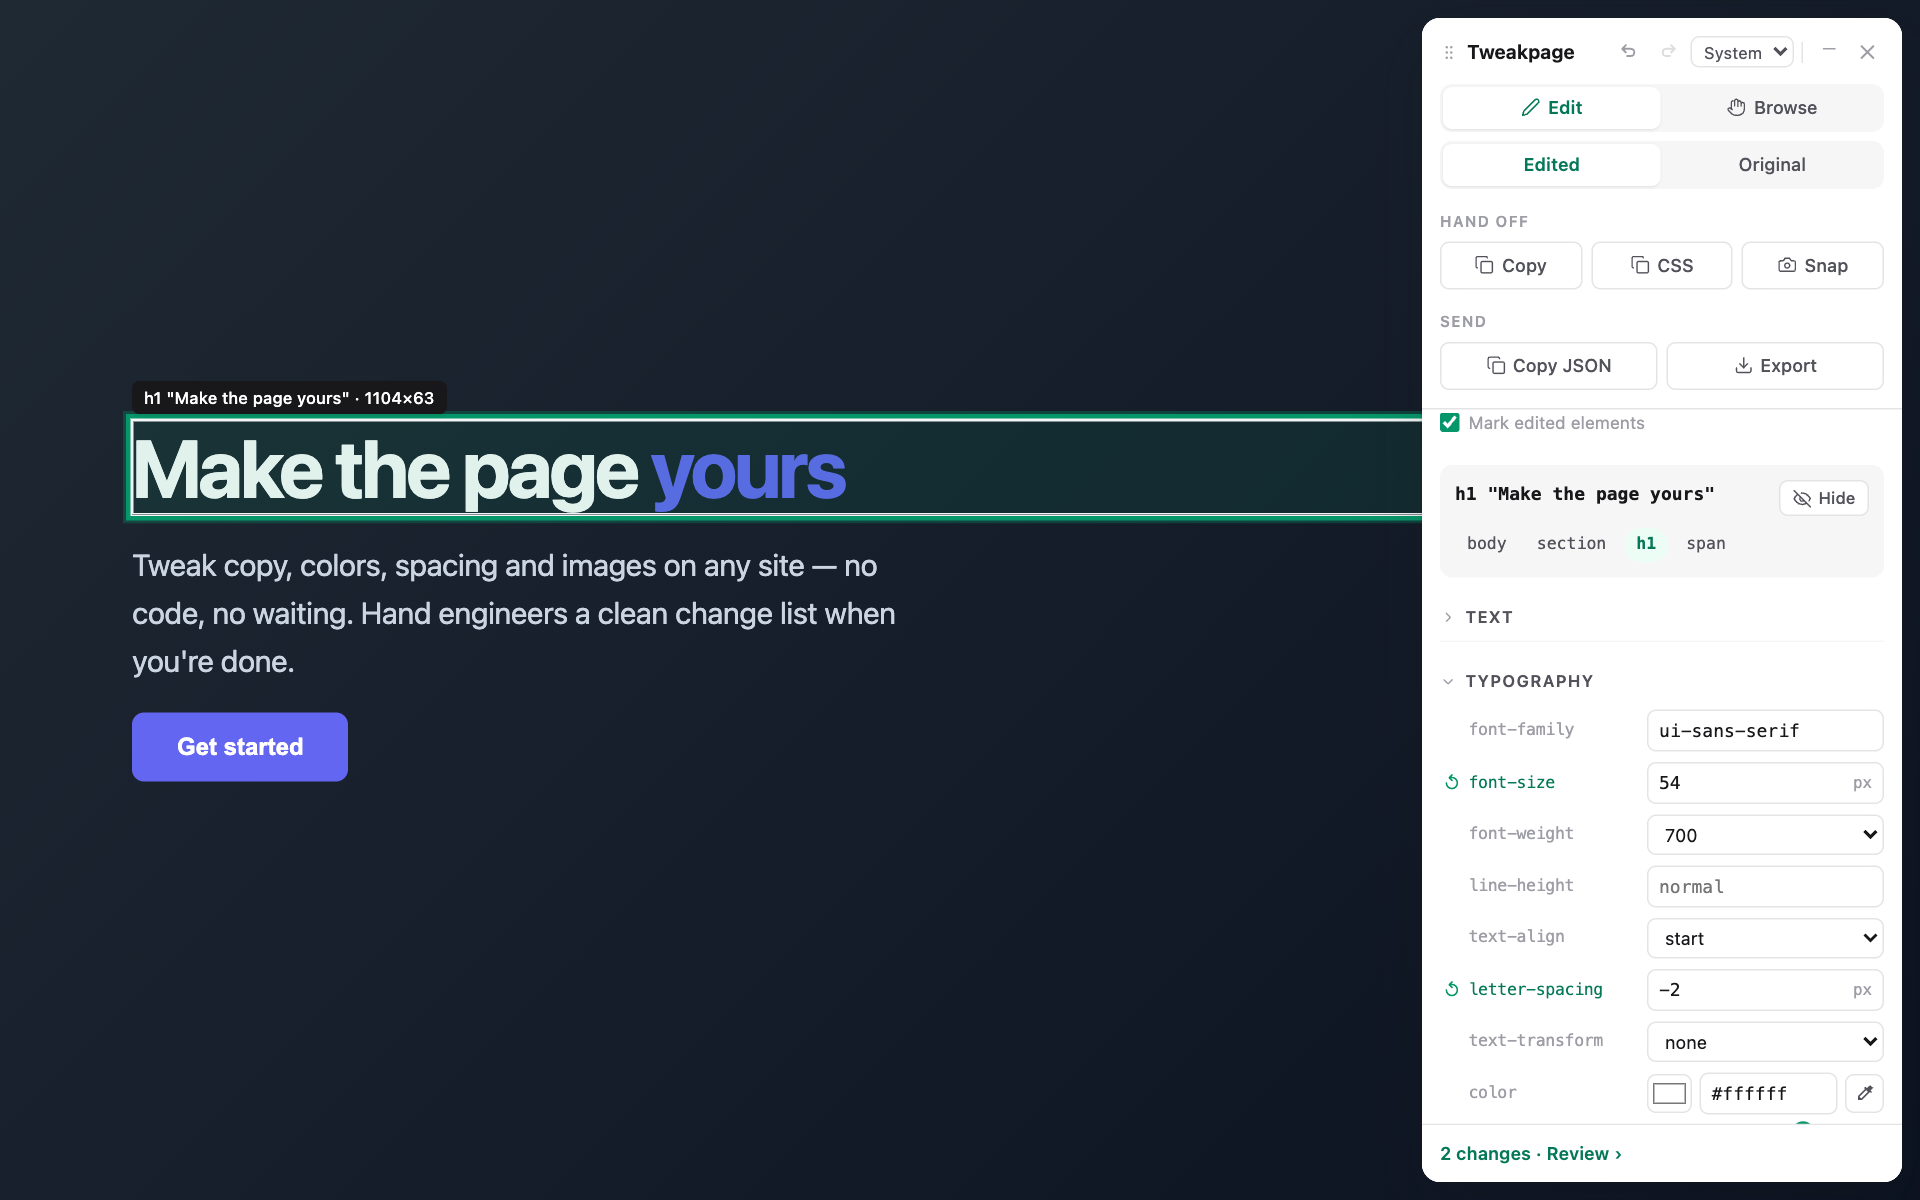
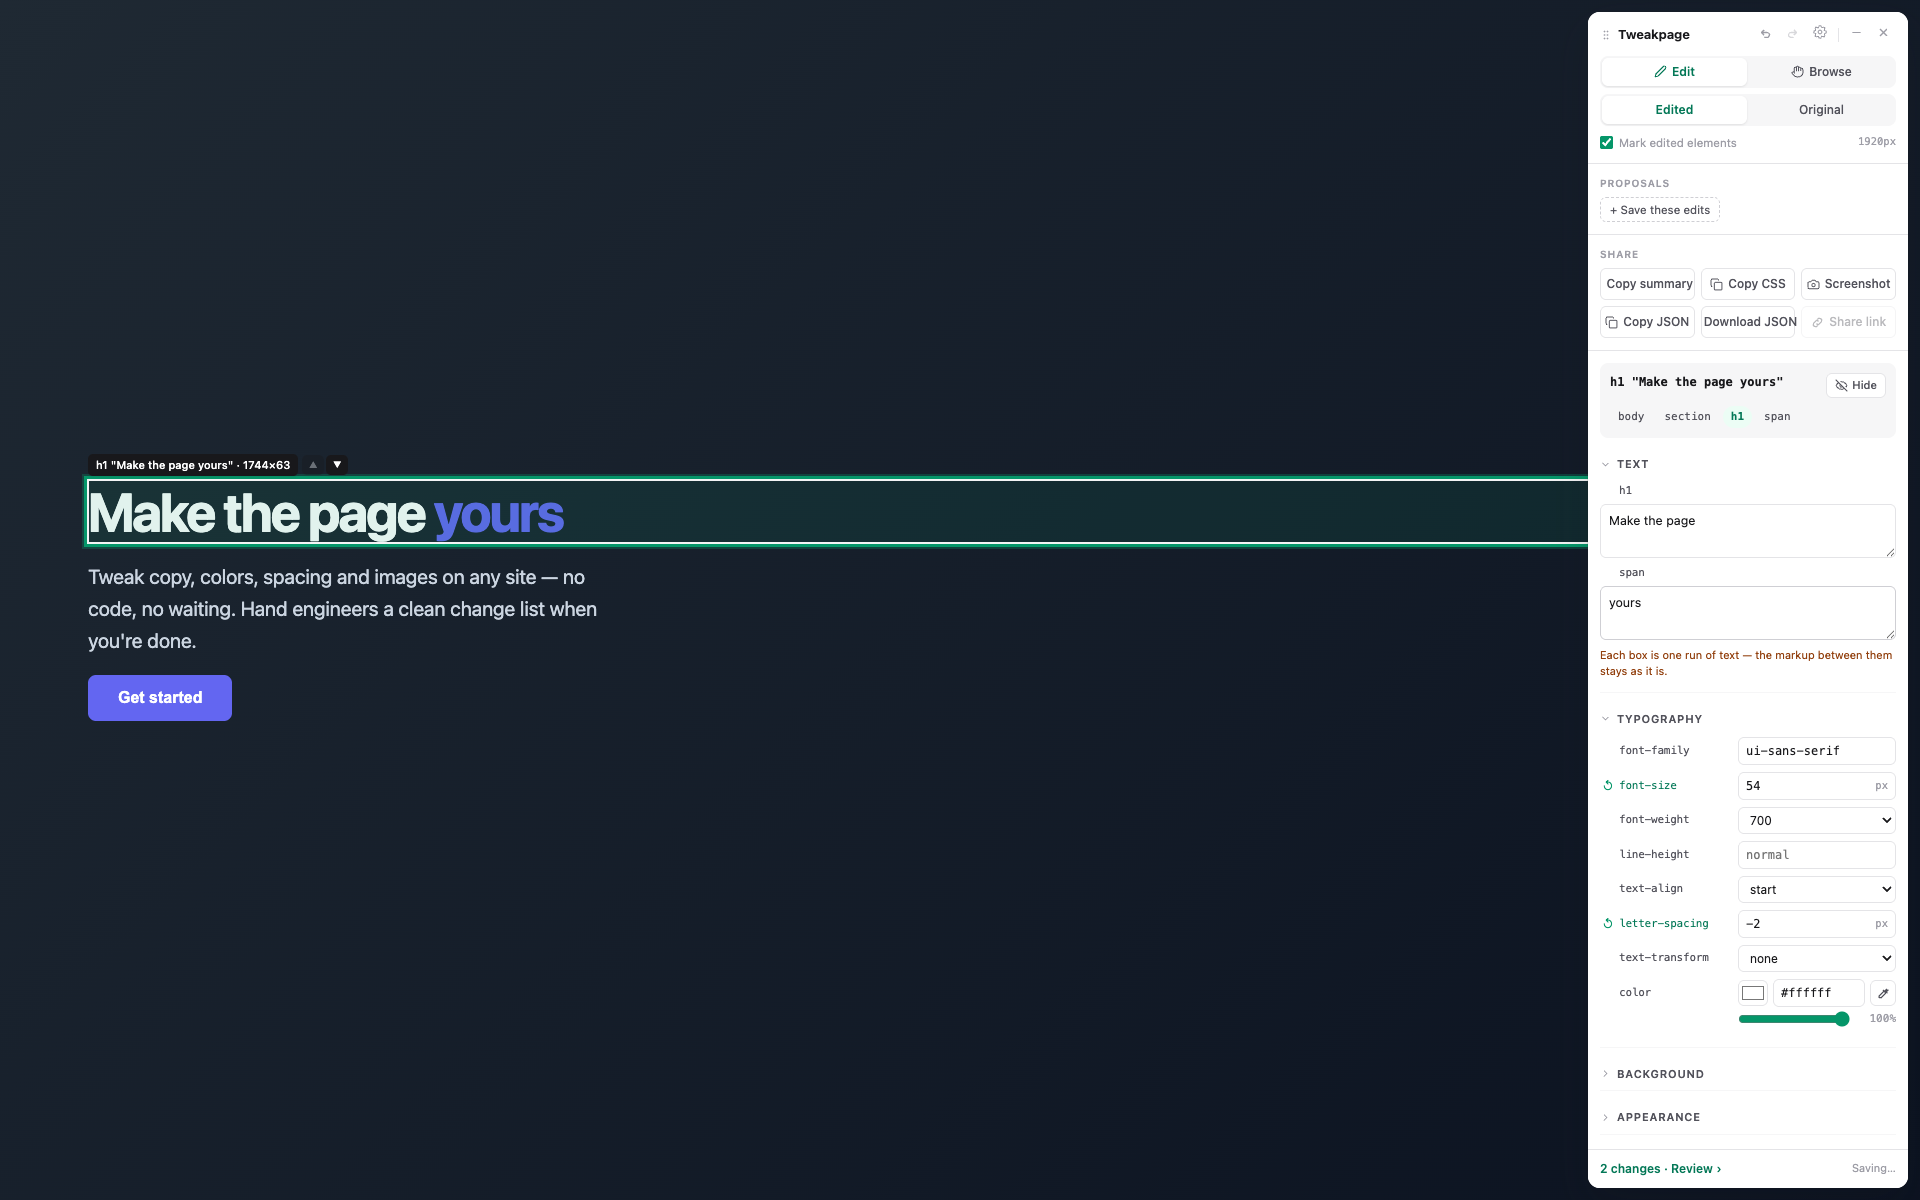
Bring the README up to the current behaviour
- One chip bottom-left replaces the pill-and-marker pair; documented as
  one voice that yields while the panel is open.
- Page identity: content-selecting queries count, tracking params don't.
- Keyboard resize, idle translucency, localized screen-reader labels.
- Reorder mentioned in the tagline and the QA checklist.
- pnpm typecheck documented; pnpm test noted as typecheck-first.
- Screenshot retaken on the current UI (gear header, reorder arrows,
  share row), in English via a single-locale build copy.

Changed region(s): [[0.0312, 0.0, 1.0, 1.0], [0.9688, 0.0925, 1.0, 0.1542], [0.9062, 0.1233, 0.9375, 0.1542]]

diff --git a/README.md b/README.md
@@ -5,7 +5,7 @@
 <h1 align="center">Tweakpage</h1>
 
 <p align="center">
-  Visually edit any web page — tweak copy, colors, spacing and images,
+  Visually edit any web page — tweak copy, colors, spacing and images, reorder sections,
   replay your edits on reload, and export a clean change list for engineers.
 </p>
 
@@ -18,6 +18,8 @@ Every edit is recorded as a structured diff (selector + property + old → new),
 
 - **Hand engineers a change list** — Copy Markdown from the Changes tab, paste into Slack/Jira.
 - **Keep your edits** — they're saved locally per URL and re-applied automatically on reload.
+  A query string that selects content (`?view=b`) counts as its own page; tracking
+  parameters (`utm_*`, click ids) don't.
 - **Share with a colleague** — Export JSON, and import theirs; edits for other pages
   wait until you open those pages.
 
@@ -60,14 +62,18 @@ Every edit is recorded as a structured diff (selector + property + old → new),
 8. `⌘Z` / `⇧⌘Z` (or `Ctrl+Z`) undo and redo, or the arrows in the header. Each change in
    Review can be toggled, hovered (highlights the element) or selected (scrolls the page to
    it). `⌥` + arrow keys move the selection through the page without a mouse.
-9. A page showing edits says so: a small marker sits in the bottom-left corner whether or
-   not the editor is open, so an edited page is never mistaken for the real one. Click it
-   to open the editor.
-10. `Esc` deselects, then closes; in Browse it returns to Edit. Drag the panel anywhere,
-   drag its left edge to resize, or minimize it to a corner pill — all remembered. The gear
-   in the header opens Settings, where the theme follows your system unless you pick Light or
-   Dark. The UI ships in English and Traditional Chinese. Edits survive reloads and follow
-   client-side navigation.
+9. A page showing edits says so with **one chip, bottom-left**. While the panel is open
+   the chip stays out of the way (the footer carries the count); minimize or close the
+   editor and the chip takes over, in the same spot — click it to bring the editor back.
+   During a shared preview it says the edits are someone else's. An edited page is never
+   mistaken for the real one, editor open or not.
+10. `Esc` deselects, then closes; in Browse it returns to Edit. Drag the panel anywhere;
+   resize by dragging its left edge or by focusing the edge and using the arrow keys —
+   both remembered. The idle panel goes slightly translucent so the page shows through,
+   and solidifies when you reach for it. The gear in the header opens Settings, where the
+   theme follows your system unless you pick Light or Dark. The UI ships in English and
+   Traditional Chinese — visible text and screen-reader labels both. Edits survive
+   reloads and follow client-side navigation.
 
 
 ## Share links (optional)
@@ -117,14 +123,16 @@ never leaves the machine — requests carry a signature derived from it.
 ## Development
 
 - `pnpm dev` — WXT dev mode with HMR
-- `pnpm test` — unit/component tests (vitest)
-- `pnpm e2e` — builds, then runs the Playwright smoke test
+- `pnpm test` — typecheck, then unit/component tests (vitest)
+- `pnpm typecheck` — `tsc --noEmit` alone
+- `pnpm e2e` — builds, then drives the real extension in Chromium (Playwright)
 - Spec: `docs/superpowers/specs/2026-08-15-tweakpage-design.md`
 - Plan: `docs/superpowers/plans/2026-08-15-tweakpage-mvp.md`
 
 ## Manual QA checklist (per release)
 
-- [ ] A real marketing/landing page — edit hero copy + color, reload, verify replay, export Markdown
+- [ ] A real marketing/landing page — edit hero copy + color, reorder two sections, reload,
+      verify replay, export Markdown
 - [ ] A React SPA — edit text, trigger a client-side navigation and back, verify replay
 - [ ] A static site — full flow including Export JSON
 
